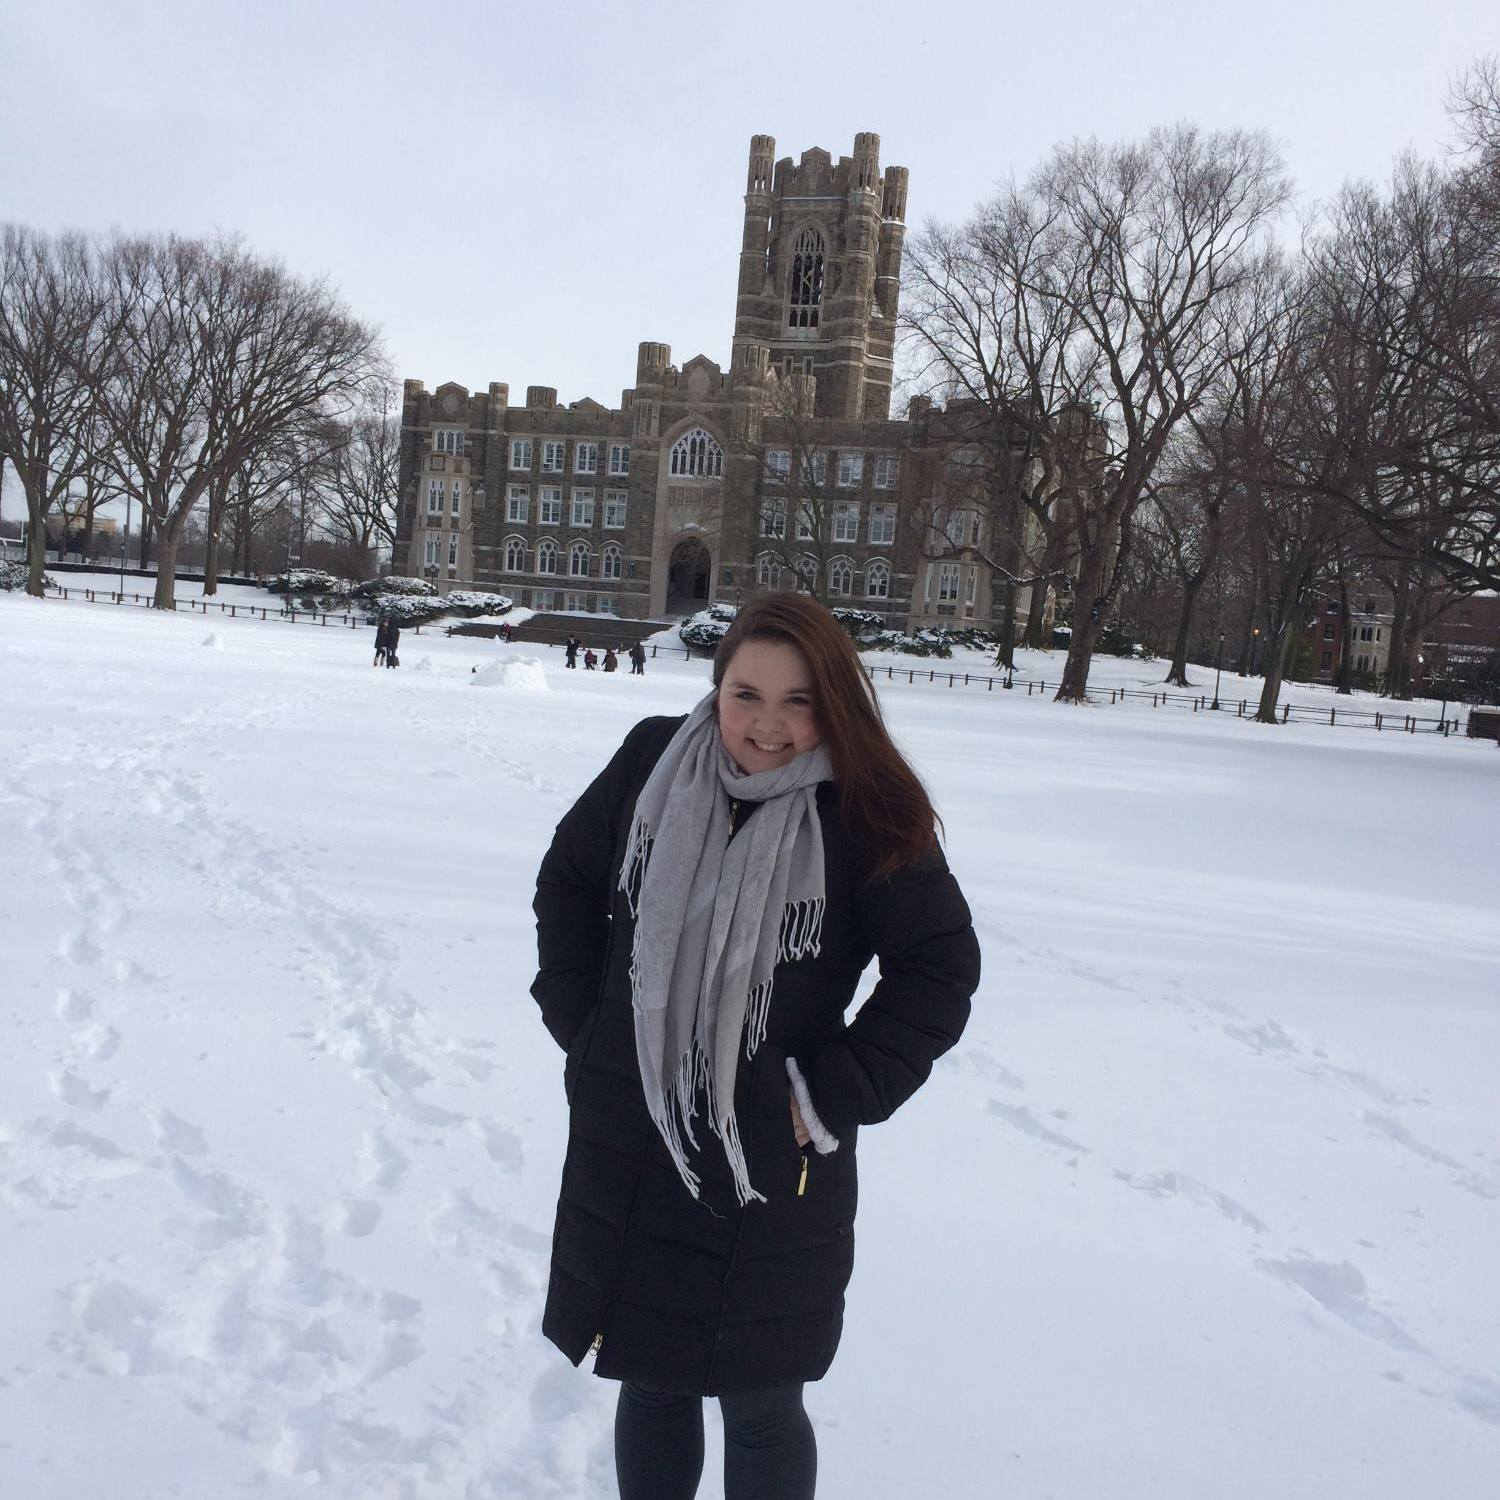
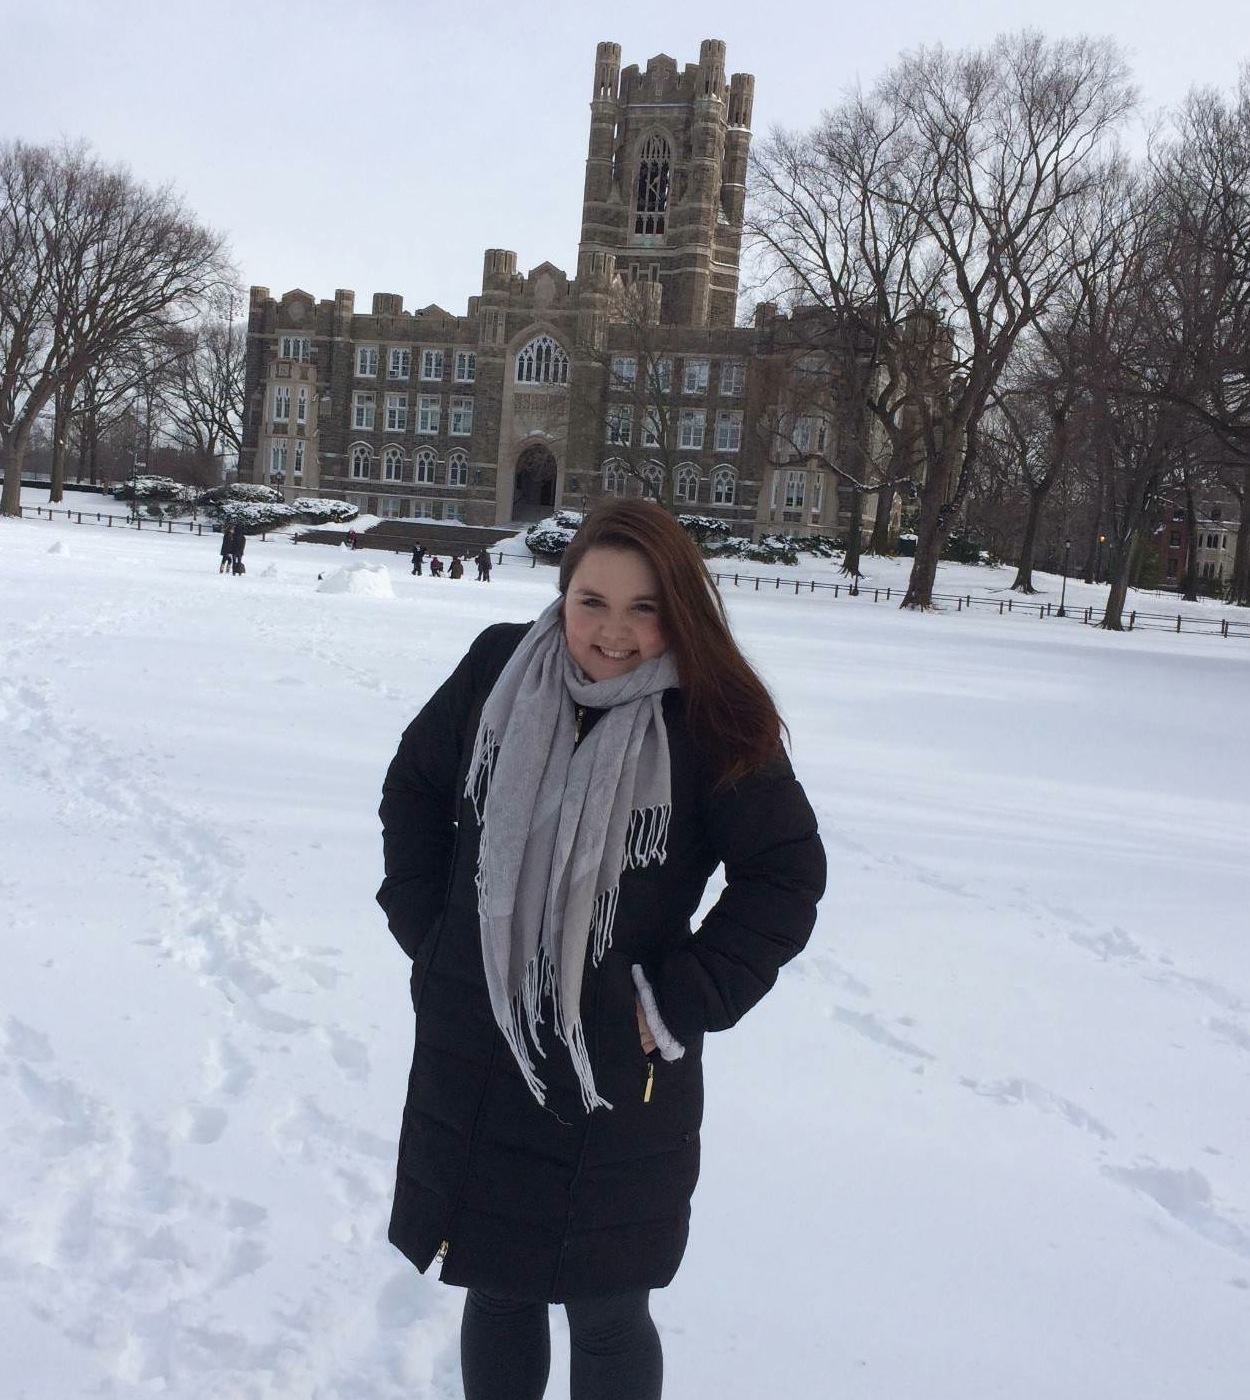
more pics chris2

diff --git a/index.html b/index.html
@@ -171,7 +171,7 @@
 					<div class="row">
 						<section class="6u 12u(narrower)">
 							<div class="box post">
-								<a href="#" class="image left"><img src="images/chris.JPG" alt="" /></a>
+								<a href="#" class="image left"><img src="images/chrissingco2.JPG" alt="" /></a>
 								<div class="inner">
 									<h3>Christopher Mazzeo</h3>
 									<p>Vice President</p>
